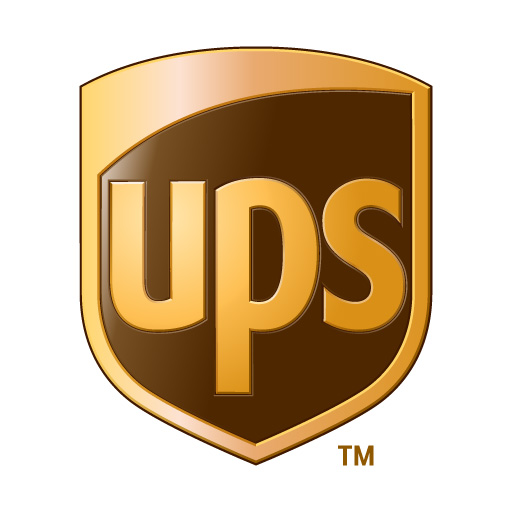
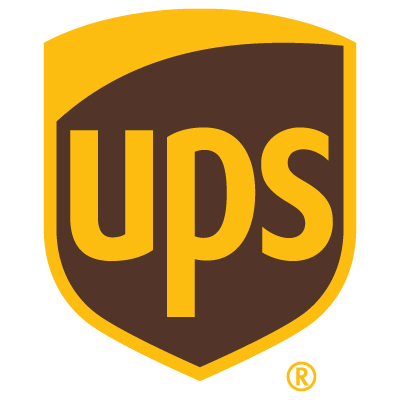
changed some FAQ and added the vector for UPS

diff --git a/index.html b/index.html
@@ -238,7 +238,7 @@
 		</div>
 		<div class="faq-group">
 			<h3> Will my travel be reimbursed? </h3>
-			<p>Despite our best efforts, we are unable to provide travel reimbursement to out-of-state hackers at this time. Rest-assured you will be taken care of when you arrive with a weekend of free meals, tons of swag, prizes and a comfortable environment for you and your peers.</p>
+			<p>Despite our best efforts, no travel reimbursements for in or out of state folks due to our focus on the quality of the event we are unable to provide travel reimbursement to out-of-state hackers at this time. Rest-assured you will be taken care of when you arrive with a weekend of free meals, tons of swag, prizes and a comfortable environment for you and your peers.</p>
 		</div>
 		<div class="faq-group">
 			<h3> What external sources can I use? </h3>
@@ -246,7 +246,7 @@
 		</div>
 		<div class="faq-group">
 			<h3> What about teams? </h3>
-			<p>You don't have to form a team before the event, or at all. At the start of the event, we will provide plenty of time to break out and form a new one if you choose to. Teams will be limited to 5 people.</p>
+			<p>You don't have to form a team before the event, or at all. At the start of the event, we will provide plenty of time to break out and form a new one if you choose to. Teams will be limited to 4 people.</p>
 		</div>
 		<div class="faq-group">
 			<h3> Will there be prizes? </h3>
